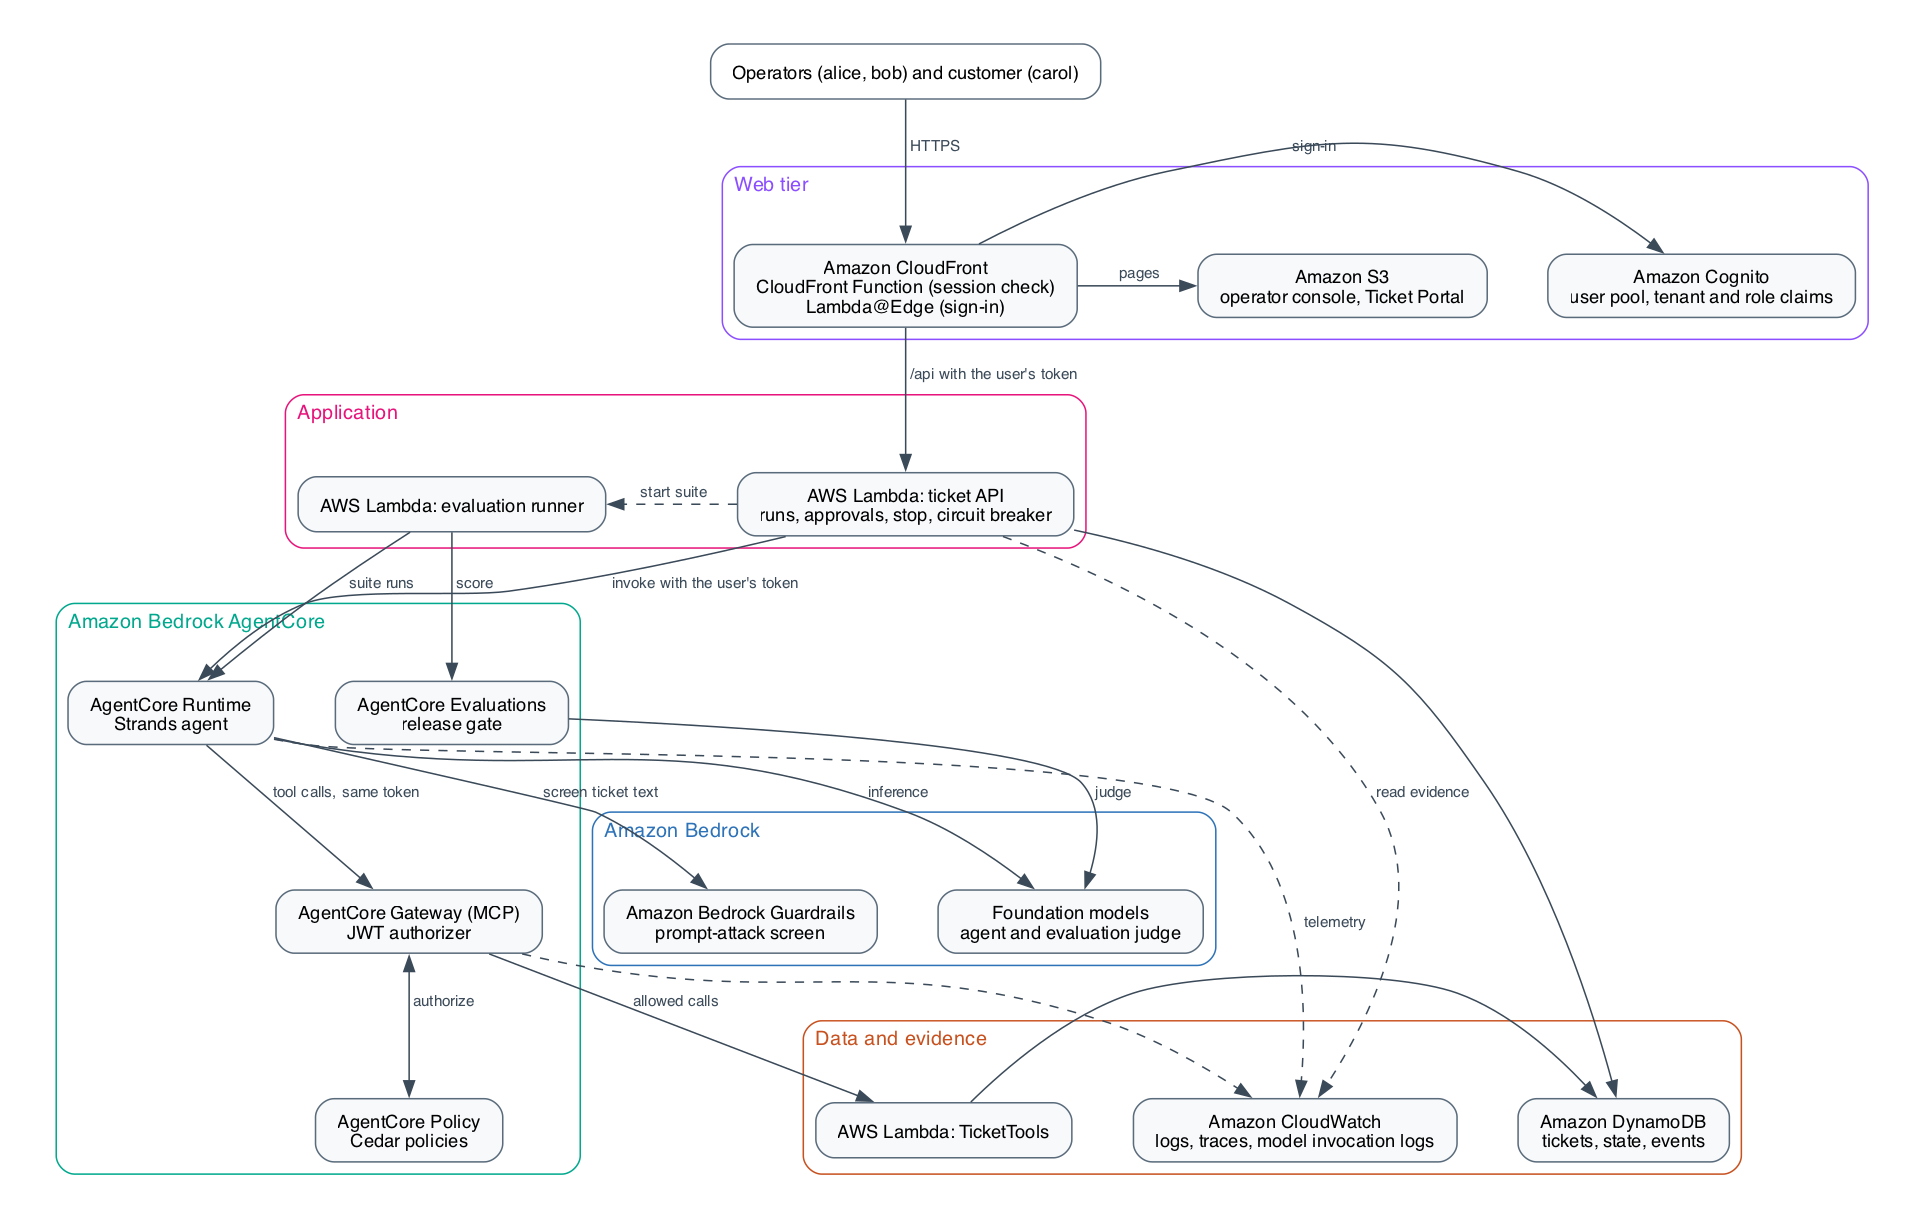
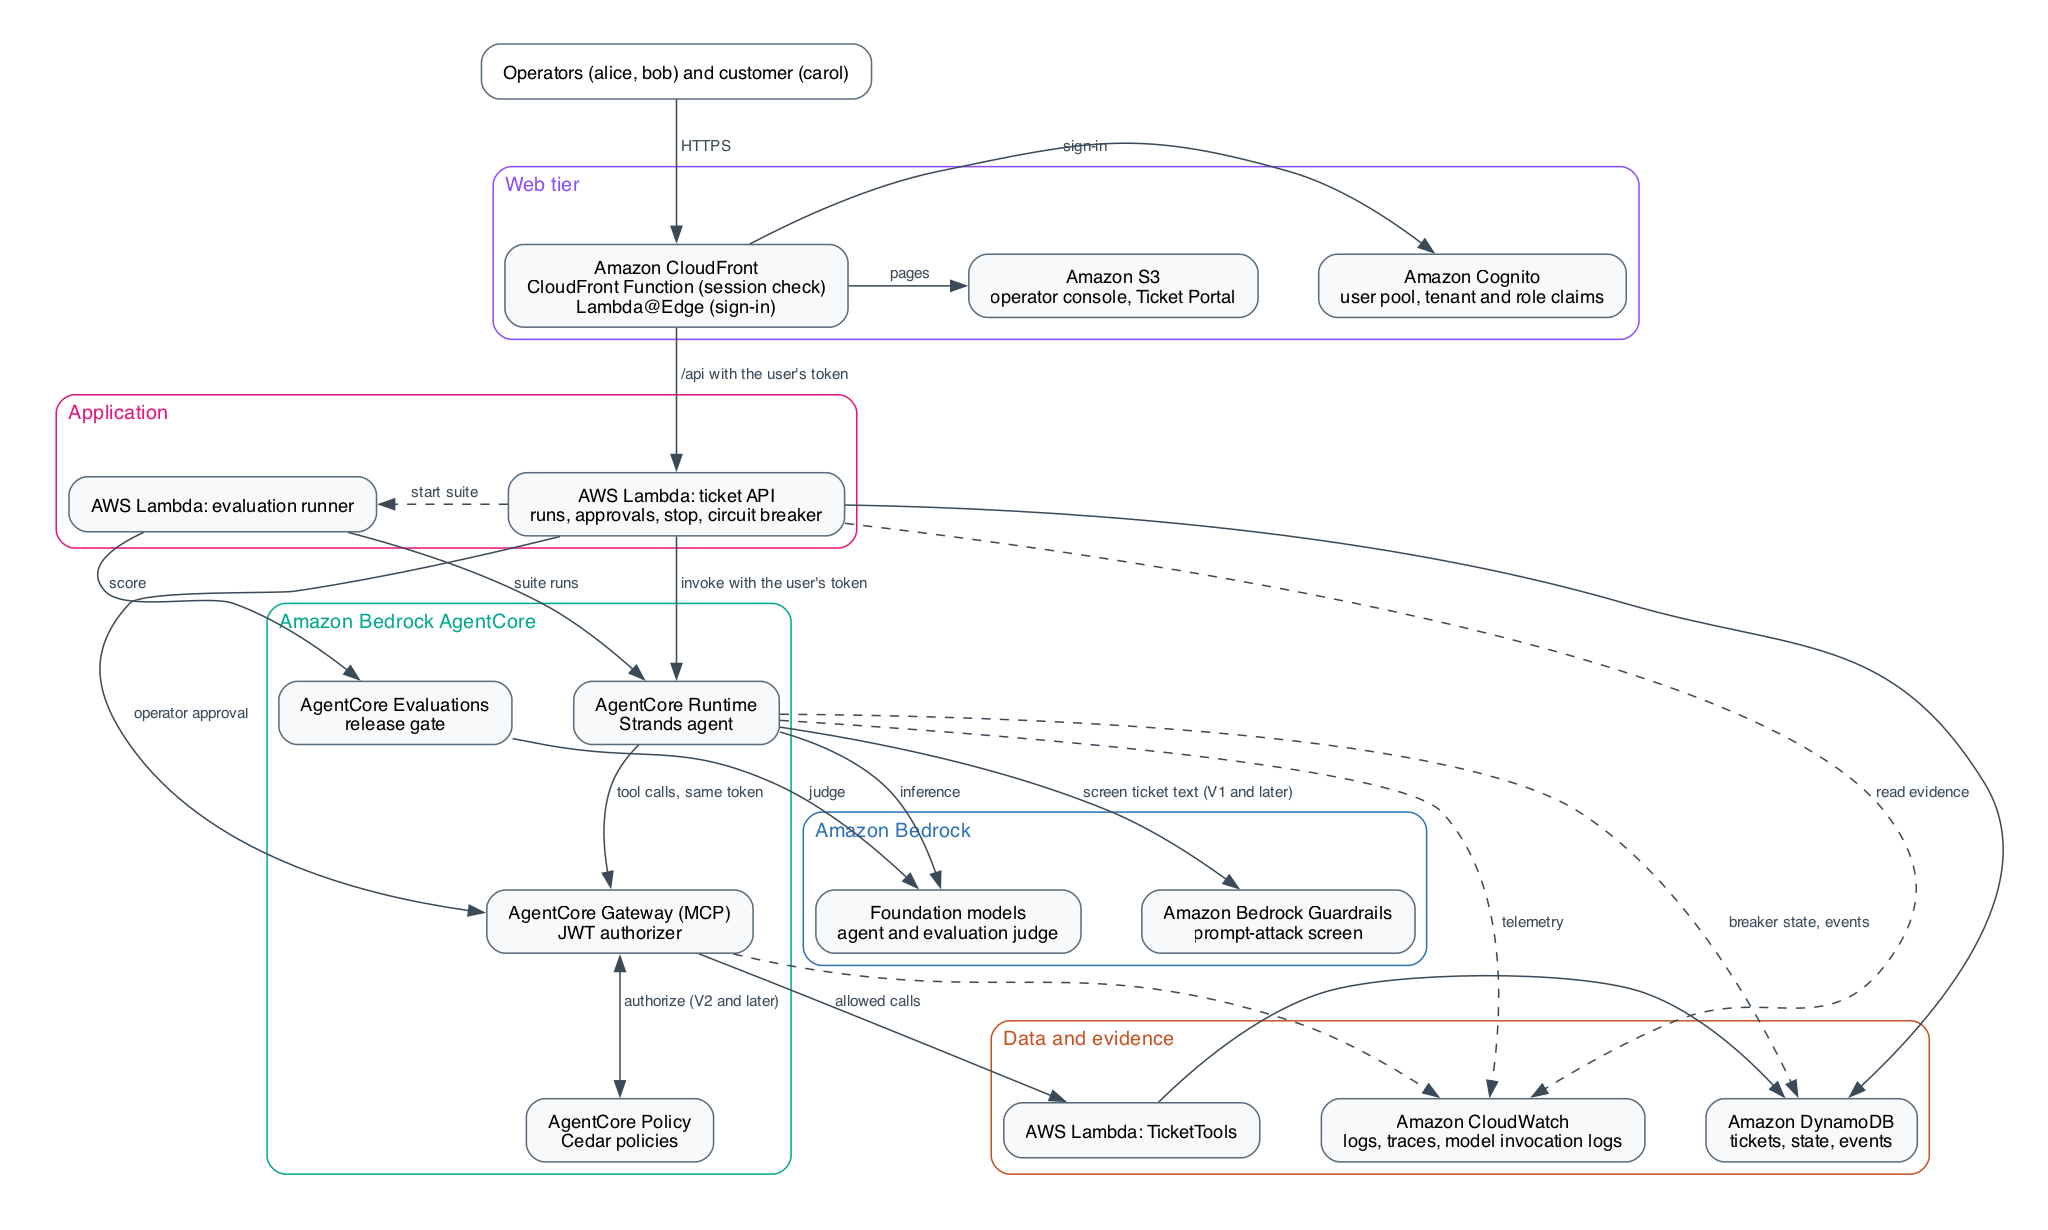
docs(ticket-ops): correct the README architecture notes and diagram
State which stage each control starts at, add the operator-approval and
breaker-state paths to the diagram, move the account warnings into the
Overview, and use full AWS product names.

diff --git a/02-use-cases/01-conversational-agents/customer-ticket-operations/README.md b/02-use-cases/01-conversational-agents/customer-ticket-operations/README.md
@@ -2,7 +2,11 @@
 
 ## Overview
 
-A support-ticket agent built with Amazon Bedrock AgentCore. Customers submit tickets through a portal; operators review them, run the agent and approve ticket closures. Ticket text is untrusted input, so the sample shows what a prompt injection in a ticket can make the agent do, and how each control added around the agent stops it.
+This sample is a support-ticket agent built with Amazon Bedrock AgentCore. Customers submit tickets through a portal; operators review them, run the agent and approve ticket closures. Ticket text is untrusted input, so the sample shows what a prompt injection in a ticket can make the agent do, and how each control added around the agent stops it.
+
+> Use a dedicated AWS sandbox account and synthetic tickets. Deployment and evaluations incur AWS charges; AgentCore Evaluations also scores every agent run while the sample is deployed.
+
+> Deployment changes account-wide settings in `us-east-1`. It replaces the Amazon Bedrock model invocation logging configuration, so prompts and responses for every Amazon Bedrock call in the account are logged for 3 days, and it turns on Amazon CloudWatch Transaction Search with 100% span indexing. Teardown removes the logging configuration. To keep an existing logging destination, see [infra/iac/envs/README.md](infra/iac/envs/README.md).
 
 ### Use case details
 
@@ -10,38 +14,34 @@ A support-ticket agent built with Amazon Bedrock AgentCore. Customers submit tic
 |---------------------|---------|
 | Use case type       | Conversational |
 | Agent type          | Single agent |
-| Use case components | Runtime, Gateway, Policy, Identity (Cognito), Evaluations, Observability, Amazon Bedrock Guardrails |
+| Use case components | Runtime, Gateway, Policy, Identity (Amazon Cognito), Evaluations, Observability, Amazon Bedrock Guardrails |
 | Use case vertical   | Customer Support |
 | Example complexity  | Advanced |
-| SDK used            | Strands Agents, Amazon Bedrock AgentCore SDK, MCP Python SDK, boto3, Terraform |
+| SDK used            | Strands Agents, Amazon Bedrock AgentCore SDK, MCP Python SDK, boto3, Terraform (infrastructure) |
 
 ### Use case Architecture
 
 ![Architecture](images/customer-ticket-operations-architecture.png)
 
-Users sign in through Amazon Cognito. Amazon CloudFront serves the operator console and the Ticket Portal from Amazon S3 and forwards API calls, with the user's token, to the ticket API on AWS Lambda. The API invokes the Strands agent on AgentCore Runtime with the same token. The agent screens ticket text with Amazon Bedrock Guardrails and reaches its tools only through AgentCore Gateway, where AgentCore Policy authorizes each call before the TicketTools Lambda function changes a ticket in Amazon DynamoDB. An evaluation runner scores suite runs with AgentCore Evaluations. Logs and traces go to Amazon CloudWatch, and the console reads them back as evidence for each run.
+Users sign in through Amazon Cognito. Amazon CloudFront serves the operator console and the Ticket Portal from Amazon S3 and forwards API calls, with the user's token, to the ticket API on AWS Lambda. The API invokes the agent on AgentCore Runtime with the same token. From V1 on, the agent screens ticket text with Amazon Bedrock Guardrails. The agent reaches its tools only through AgentCore Gateway. From V2 on, AgentCore Policy authorizes each call before the TicketTools Lambda function reads or changes a ticket in Amazon DynamoDB. Operator approvals go from the ticket API through the same Gateway. The ticket API writes portal submissions and demo resets to DynamoDB directly. An evaluation runner scores suite runs with AgentCore Evaluations. Logs and traces go to Amazon CloudWatch, and the console reads them back as evidence for each run. The diagram shows the request path; the build (AWS CodeBuild, Amazon ECR) and configuration (AWS Secrets Manager, Parameter Store) are left out.
 
 ### Use case key Features
 
-The console compares six stages of the same agent. Each stage adds one control:
+The console compares six stages of the same agent. Each stage adds a layer of control:
 
 | Stage | Control added |
 |---|---|
-| V0 Unsafe | None: model output executes |
+| V0 Unsafe | None: the agent runs every tool call the model produces |
 | V1 Guardrails | Ticket text screened for prompt attacks |
 | V2 Identity | Tool access fenced to the caller's tenant |
 | V3 Policy | Human approval before a ticket is closed |
 | V4 Contain | Write cap and a circuit breaker |
-| V5 Evidence | Release gated on passing evaluations |
-
-> Use a dedicated AWS sandbox account and synthetic tickets. This is sample code and is not intended for production. Deployment and evaluations incur AWS charges.
-
-> The deploy changes account-wide settings in `us-east-1`. It replaces the Amazon Bedrock model invocation logging configuration, so prompts and responses for every Bedrock call in the account are logged for 3 days, and it turns on CloudWatch Transaction Search with 100% span indexing. Teardown removes the logging configuration. Do not deploy into an account that other workloads share. To keep an existing logging destination, see [infra/iac/envs/README.md](infra/iac/envs/README.md).
+| V5 Evidence | Same controls as V4; release gated on passing evaluations |
 
 ## Prerequisites
 
 - A git clone of this repository (a ZIP download will not build).
-- [uv](https://docs.astral.sh/uv/) (it installs Python 3.12+), AWS CLI v2, Terraform 1.10+, Git, Make and Zip. Node.js 20+ is needed only for `make test`.
+- [uv](https://docs.astral.sh/uv/) (it installs Python 3.12+), AWS CLI v2, Terraform 1.10+, Git, make and zip. Node.js 20+ is needed only for `make test`.
 - A named AWS CLI profile with `AdministratorAccess` in a sandbox account. Credentials from environment variables are not used; create a profile with `aws configure sso` or `aws configure --profile my-dev`.
 - The sample deploys to `us-east-1` only.
 - Amazon Bedrock model access for Meta Llama 4 Maverick (the agent) and Anthropic Claude Haiku 4.5 (the evaluation judge). Both run through `us.` inference profiles, which route to `us-east-1`, `us-east-2` and `us-west-2`.
@@ -52,15 +52,15 @@ Run from this folder:
 
 ```bash
 uv sync --extra aws
-unset AWS_BEARER_TOKEN_BEDROCK   # a Bedrock API key in your shell would override the profile
+unset AWS_BEARER_TOKEN_BEDROCK   # an Amazon Bedrock API key in your shell would override the profile
 aws sts get-caller-identity --profile my-dev --region us-east-1
 make deploy-all PROFILE=my-dev REGION=us-east-1
 make creds PROFILE=my-dev REGION=us-east-1
 ```
 
-A deploy takes 20 to 35 minutes and prints `Demo URL: https://<id>.cloudfront.net` near the end.
+Deployment takes 20 to 35 minutes and prints `Demo URL: https://<id>.cloudfront.net` near the end.
 
-`make creds` prints the demo URL and a password for each user to your terminal. The passwords are generated at deploy time and stored in AWS Secrets Manager. Open the URL and sign in as `presenter`. The gear menu switches between the two operators (alice and bob) and the Ticket Portal (carol). Deployment settings are in [infra/iac/envs/demo.tfvars](infra/iac/envs/demo.tfvars).
+`make creds` prints the demo URL and a password for each user to your terminal. The passwords are generated at deploy time and stored in AWS Secrets Manager. The gear menu switches between the two operators (alice and bob) and the Ticket Portal (carol). Deployment settings are in [infra/iac/envs/demo.tfvars](infra/iac/envs/demo.tfvars).
 
 ## Execution instructions
 

diff --git a/02-use-cases/01-conversational-agents/README.md b/02-use-cases/01-conversational-agents/README.md
@@ -29,7 +29,7 @@ Agents that interact with users in real time through a chat or query interface. 
 | [A2A-multi-agent-incident-response](./A2A-multi-agent-incident-response/) | IT / DevOps | Advanced | Runtime, Gateway, Memory, A2A using Strands + OpenAI Agents + Google ADK |
 | [AWS-operations-agent](./AWS-operations-agent/) | Cloud Operations | Advanced | Runtime, Gateway, Memory, Policy, Observability; built with Strands, ADK, and OpenAI Agents SDK |
 | [customer-support-assistant-vpc](./customer-support-assistant-vpc/) | Retail / E-commerce | Intermediate | Runtime, Gateway deployed inside a VPC with private endpoints |
-| [customer-ticket-operations](./customer-ticket-operations/) | Customer Support | Advanced | Runtime, Gateway, Policy, Identity (Cognito), Evaluations, Observability; Bedrock Guardrails and human approval |
+| [customer-ticket-operations](./customer-ticket-operations/) | Customer Support | Advanced | Runtime, Gateway, Policy, Identity (Cognito), Evaluations, Observability; Amazon Bedrock Guardrails and human approval |
 | [deep-research-agent](./deep-research-agent/) | Research / Q&A | Intermediate | Runtime, Gateway (Web Search); iterative Plan → Search → Reflect → Synthesize loop with auto-provisioning |
 | [device-management-agent](./device-management-agent/) | IoT / Smart Home | Intermediate | Runtime, Gateway, Policy, Identity (Cognito); React frontend |
 | [finance-personal-assistant](./finance-personal-assistant/) | Personal Finance | Beginner | Gateway, Policy; notebook-based |
